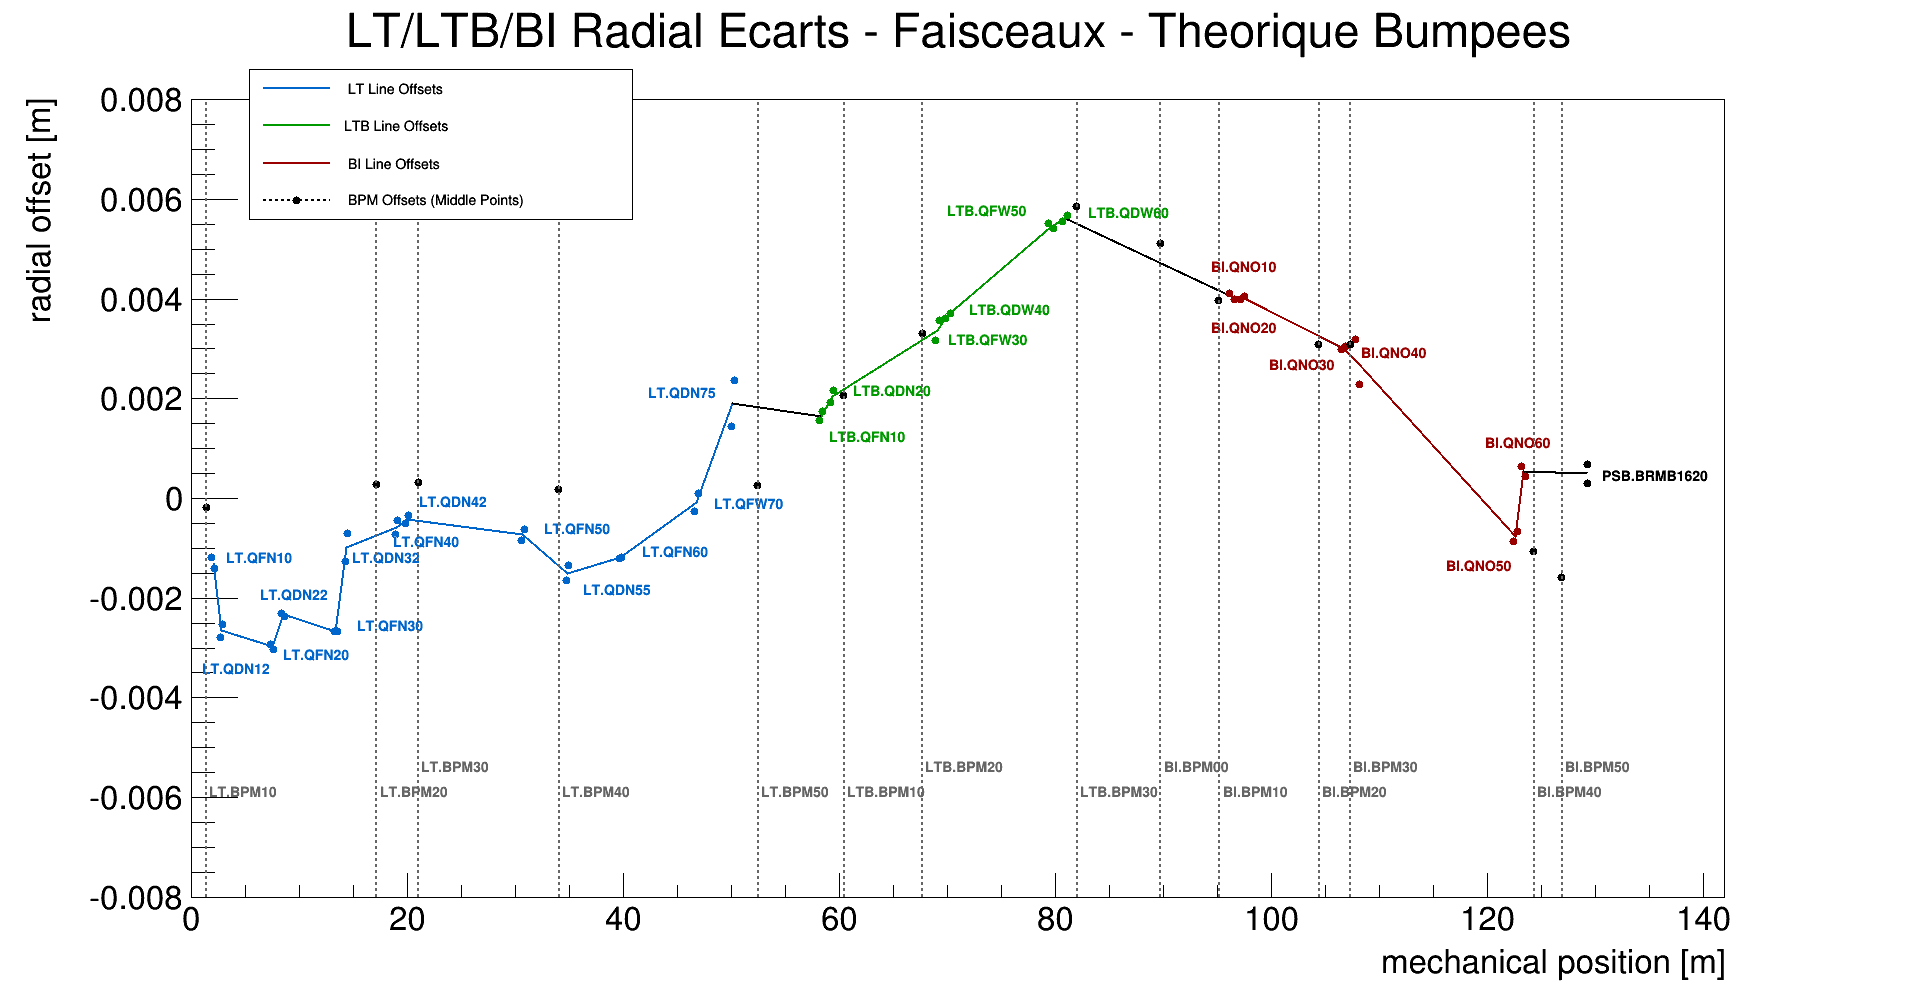
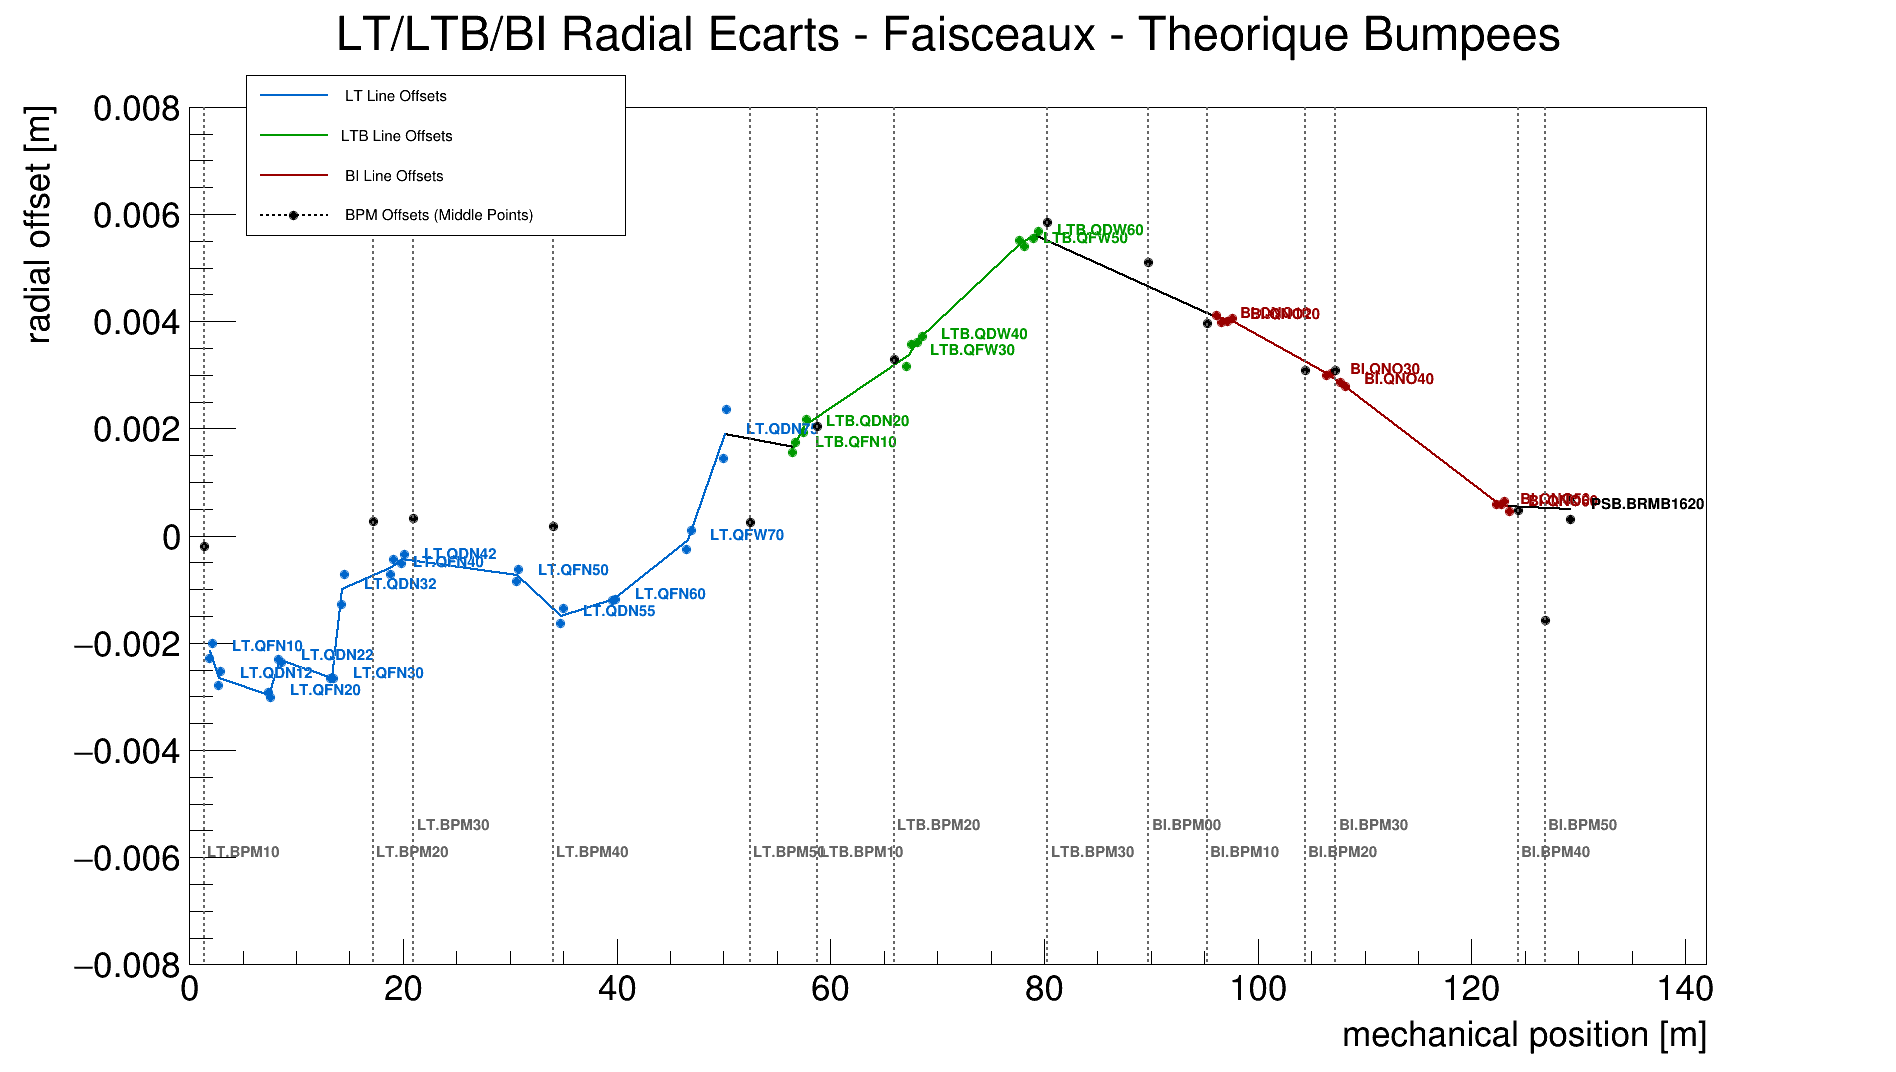
fixed a typo in GEODE for LT.QFN10

diff --git a/GEODE/align_withLonOffset.py b/GEODE/align_withLonOffset.py
@@ -192,7 +192,8 @@ columns_LT = defaultdict(list)
 readCSV(folder + '/'+ 
         #'LT_OFFSETS_17FEB2015_Faisceau_Derniers_TheoriquesBumpees_Existant.csv',
         #'LT_OFFSETS_31MAR2015_Faisceau_Derniers_TheoriquesBumpees_Existant.csv',
-        'LT_OFFSETS_26FEB2016_Faisceau_Derniers_TheoriquesBumpees_Existant.csv',
+        #'LT_OFFSETS_26FEB2016_Faisceau_Derniers_TheoriquesBumpees_Existant.csv',
+        'LT_OFFSETS_09MAR2016_Faisceau_Derniers_TheoriquesBumpees_Existant.csv',
         columns_LT)
 
 columns_LTB = defaultdict(list)
